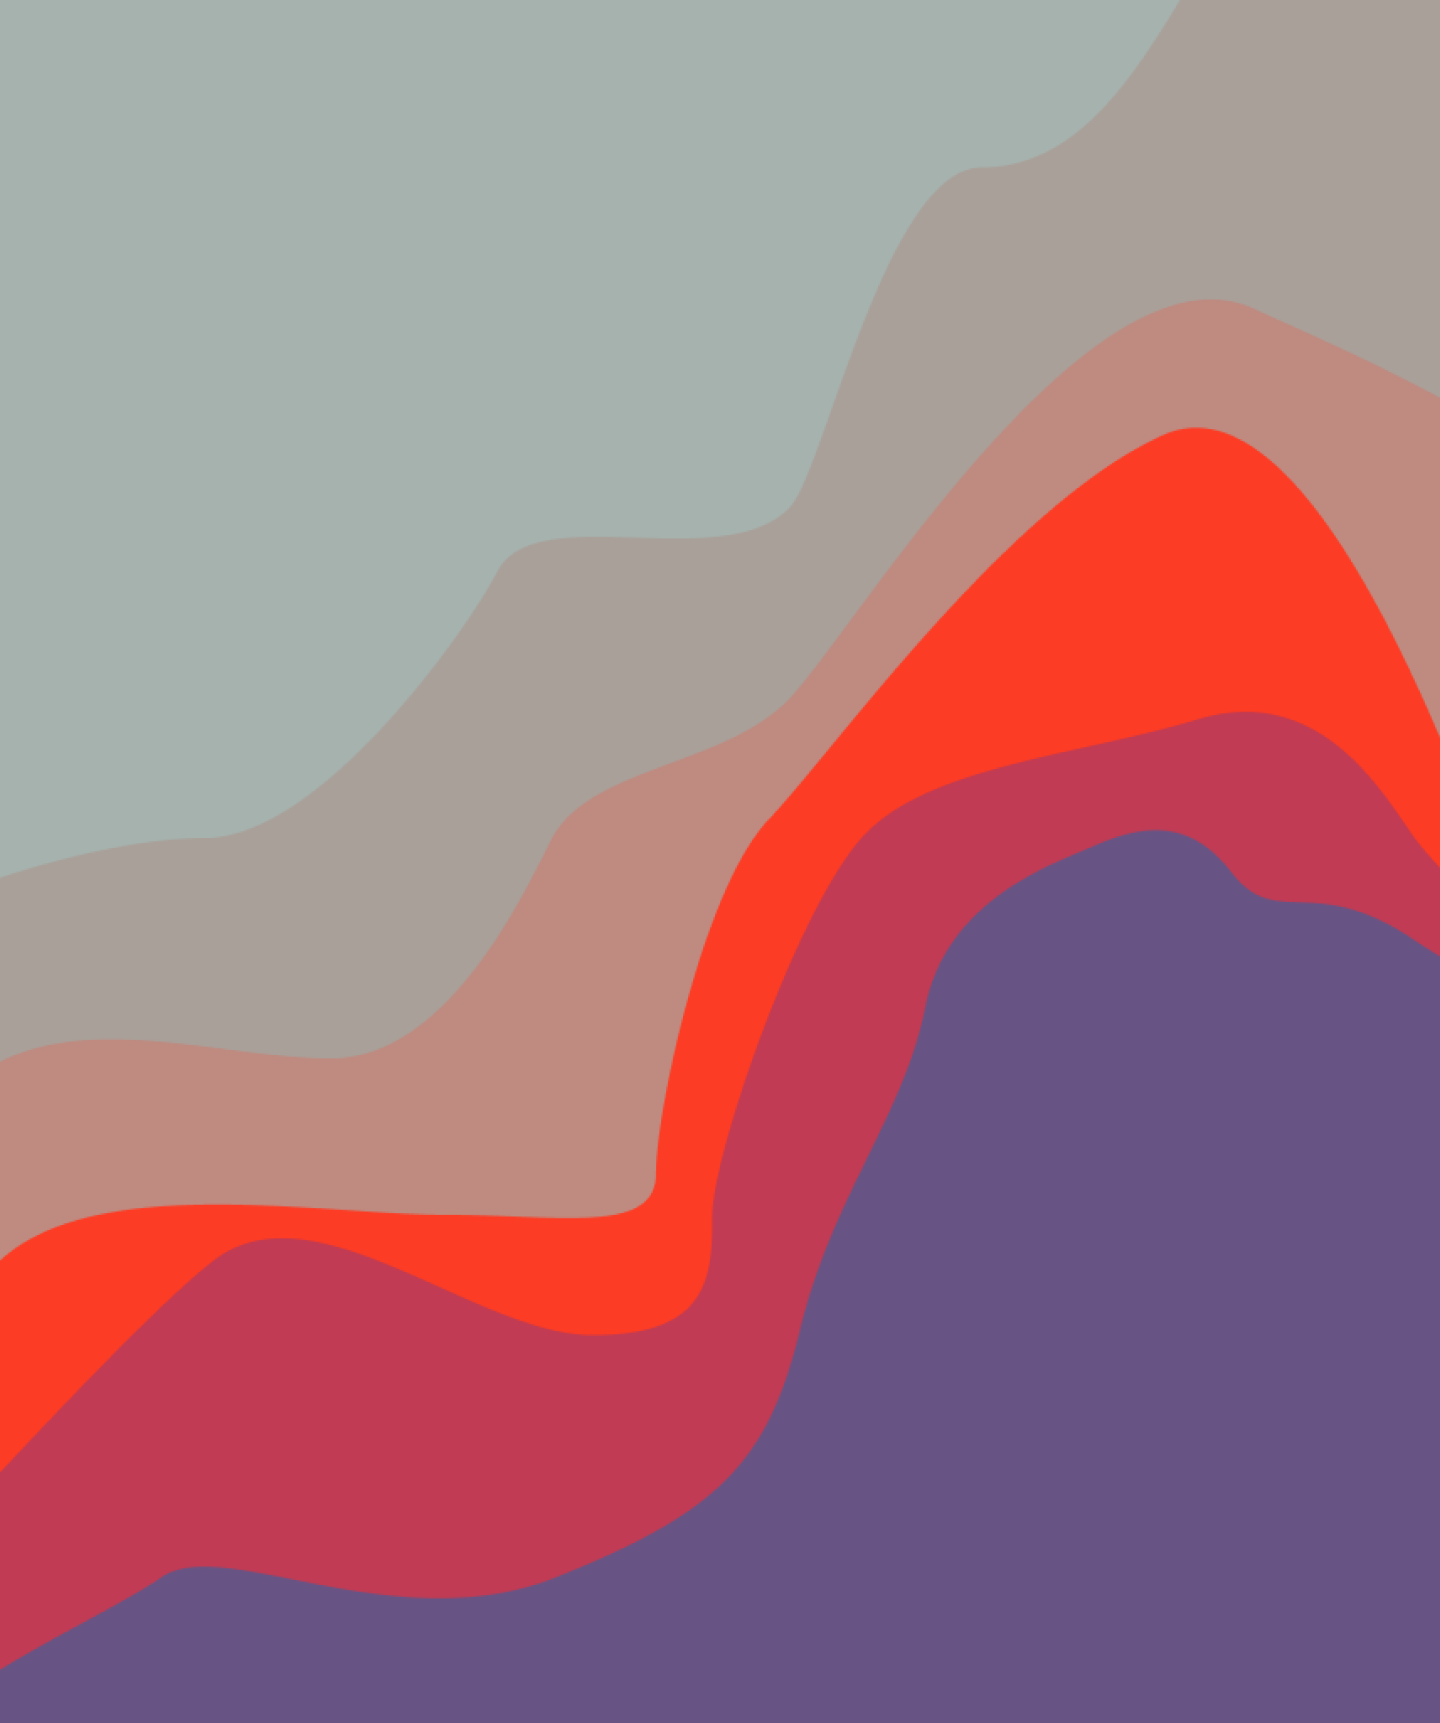
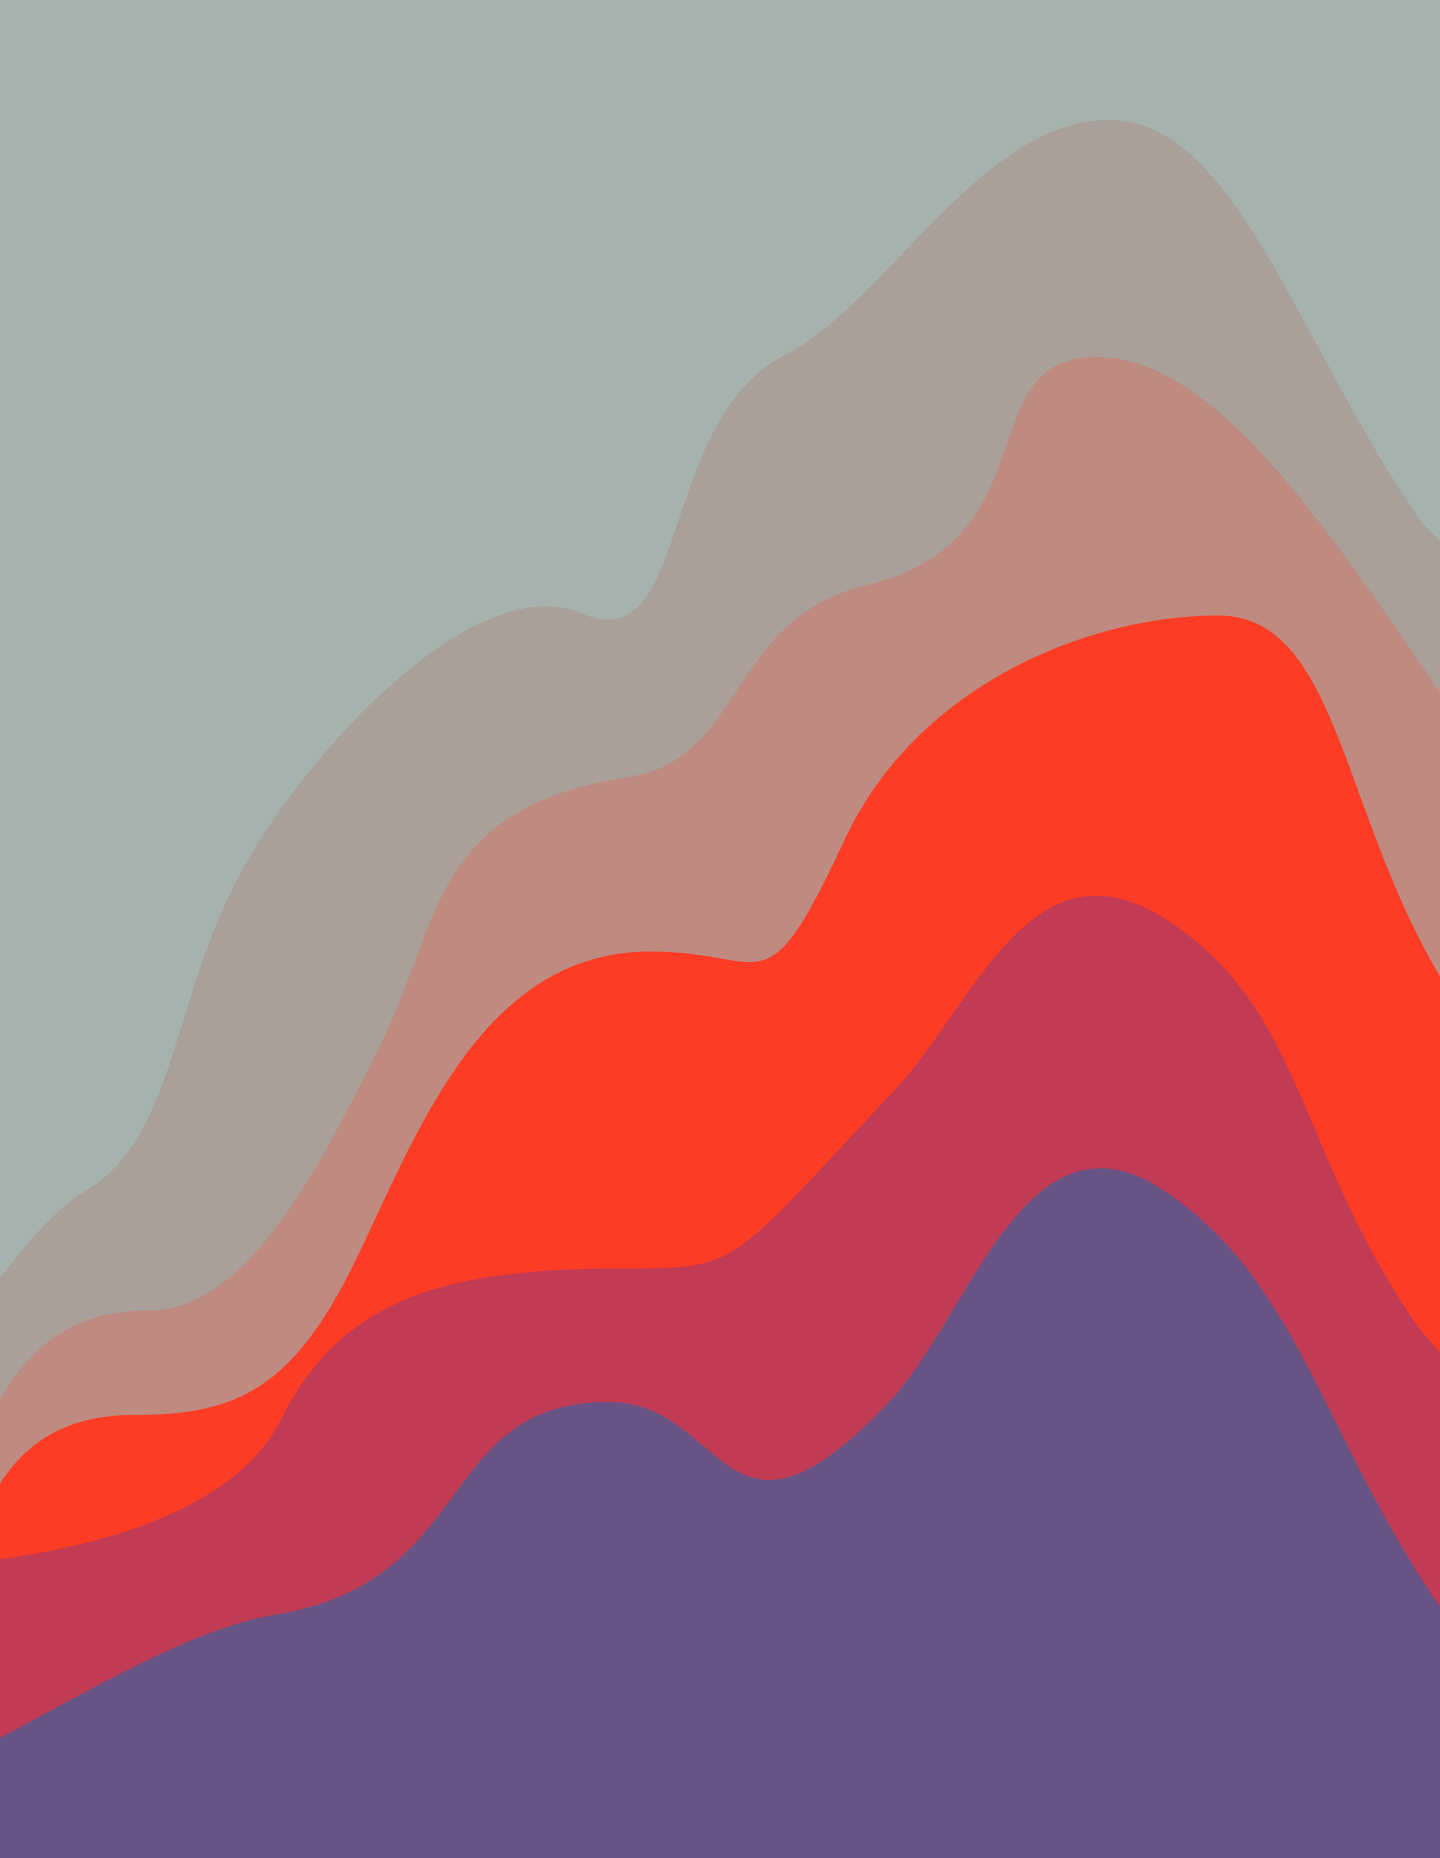
transition and backgroun fixed

diff --git a/pupeteer-playground.client/src/App.vue b/pupeteer-playground.client/src/App.vue
@@ -25,9 +25,9 @@
             <router-view />
           </div>
         </div>
-        <div class="col-md-8">
-          <Results />
-        </div>
+        <transition name="results" tag="div" class="col-md-8">
+          <Results v-if="loading !== null" />
+        </transition>
       </div>
     </div>
   </main>
@@ -52,7 +52,8 @@ export default {
     })
     return {
       appState: computed(() => AppState),
-      mode: computed(() => route.name)
+      mode: computed(() => route.name),
+      loading: computed(() => AppState.loading)
     }
   }
 }
@@ -63,34 +64,11 @@ export default {
 @import url("https://cdn.jsdelivr.net/npm/bootstrap-icons@1.4.1/font/bootstrap-icons.css");
 
 body{
- background-image: url('./assets/img/frame1.png'), url('./assets/img/frame2.png');
- background-repeat: no-repeat, no-repeat;
- background-size: cover;
- background-position: 0 top, 0 bottom;
+ background-image: url('./assets/img/frame1.png'), url('./assets/img/frame2.png'), url('./assets/img/frame1.png'), url('./assets/img/frame2.png'), url('./assets/img/frame1.png'), url('./assets/img/frame2.png'), url('./assets/img/frame1.png'), url('./assets/img/frame2.png');
+ background-repeat: no-repeat, no-repeat, no-repeat, no-repeat, no-repeat, no-repeat, no-repeat, no-repeat;
+ background-size: 100vw, contain, contain, contain, contain, contain, contain, contain;
+ background-position: 0 top, 0 120vw, 0 240vw, 0 360vw, 0 480vw, 0 600vw, 0 720vw, 0 840vw;
 }
-
-// #app{
-//   perspective: 1px;
-//   height: 100vh;
-//   overflow-x: hidden;
-//   overflow-y: auto;
-// }
-
-// .paralax-layer{
-//   position: absolute;
-//   top: 0;
-//   right: 0;
-//   bottom: 0;
-//   left: 0;
-// }
-
-// .paralax-layer-back{
-//   transform: translateZ(-2px) scale(3);
-// }
-
-// .paralax-layer-deep{
-//   transform: translateZ(-3px) scale(4);
-// }
 
 input{
   border-radius: 4px;
@@ -147,6 +125,18 @@ a:hover {
 
 .window{
   transition: all .5s ease;
+}
+
+// Results Transition
+/* pictures fade in */
+.results-enter-active,
+.results-leave-active {
+  transition: all .4s ease;
+}
+.results-enter-from,
+.results-leave-to {
+  opacity: 0;
+  transform: scaleY(0) translateY(-120px);
 }
 
 // Scroll bar

diff --git a/pupeteer-playground.client/src/components/Results.vue b/pupeteer-playground.client/src/components/Results.vue
@@ -1,6 +1,5 @@
 <template>
-  <div v-if="state.loading == null"></div>
-  <div v-else class="Results row rounded-8 justify-content-center p-5 bg-fade-dark my-1 window">
+  <div class="Results row rounded-8 justify-content-center p-5 bg-fade-dark my-1 window">
     <div v-if="!state.error" class="error">
       {{ state.error }}
     </div>
